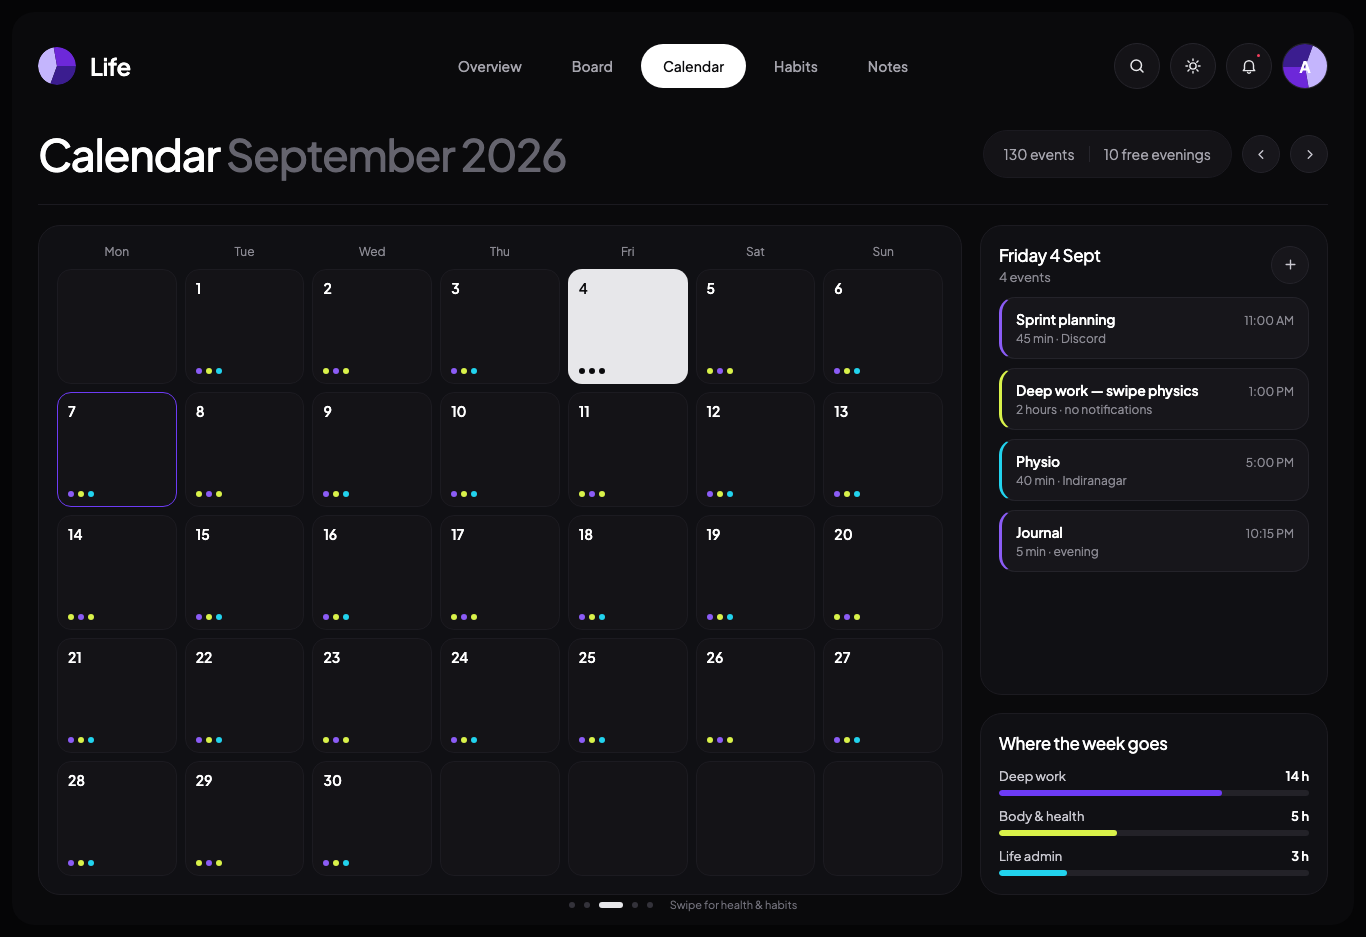
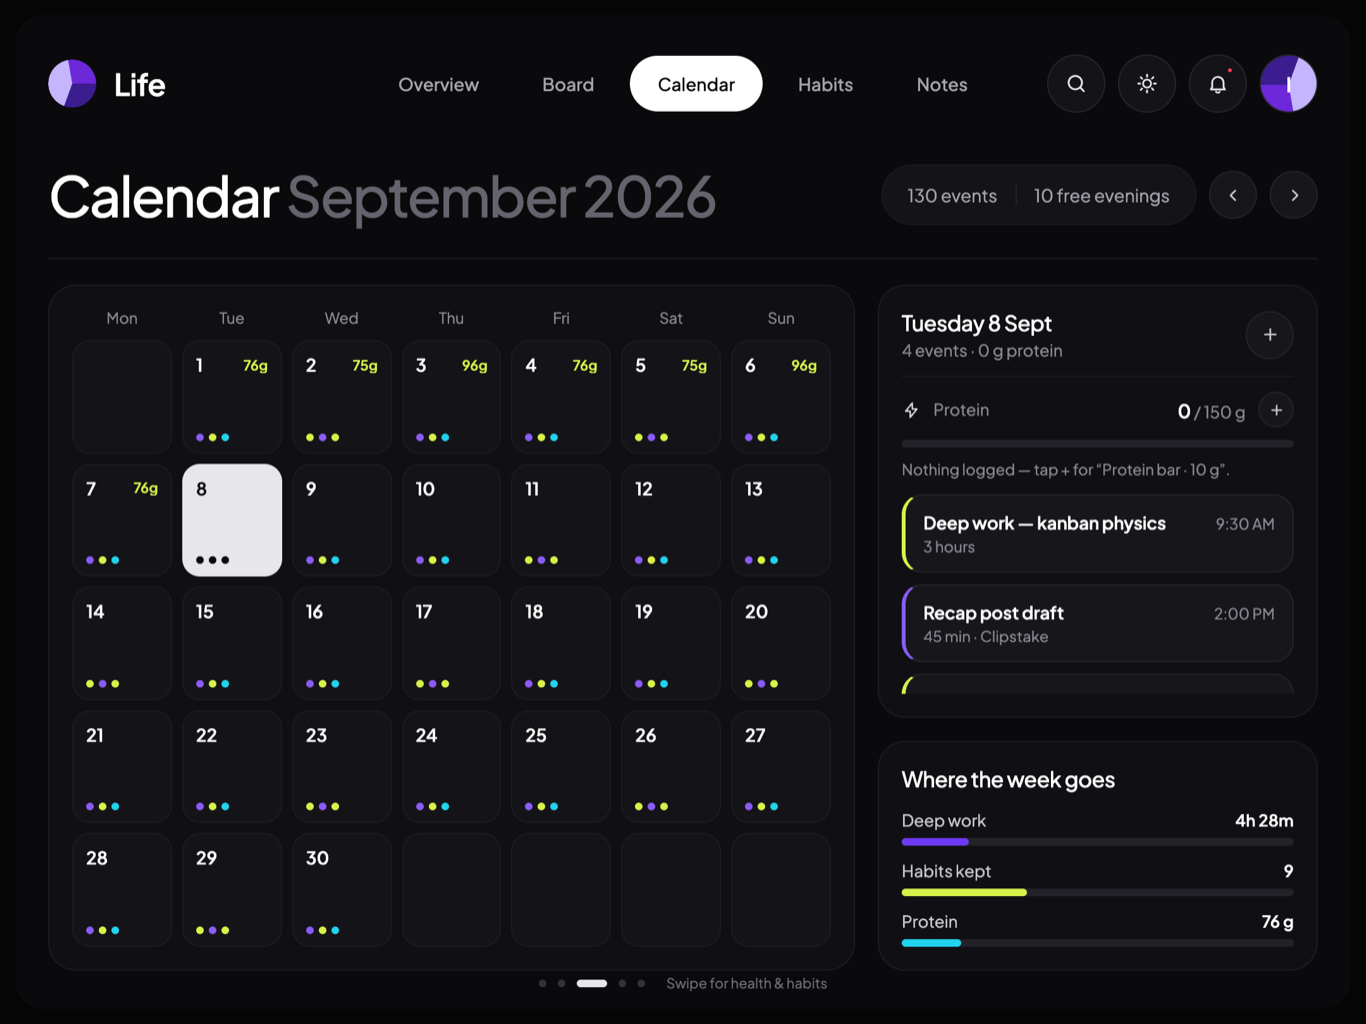
docs: refresh the screenshots from the responsive build
All eight retaken from the same headless render pass that verified the
layouts, at the 1366px width the previous set used. Two are new: the home
page in edit mode, and the overview on a phone — the two things the README
now claims and could not show.

diff --git a/README.md b/README.md
@@ -145,6 +145,10 @@ npm run web
 | --- | --- |
 | <img src="docs/notes.png" width="420" /> | <img src="docs/light-board.png" width="420" /> |
 
+| Arranging the home page | On a phone |
+| --- | --- |
+| <img src="docs/editing.png" width="420" /> | <img src="docs/phone.png" width="200" /> |
+
 ## Building for a device
 
 ```bash
